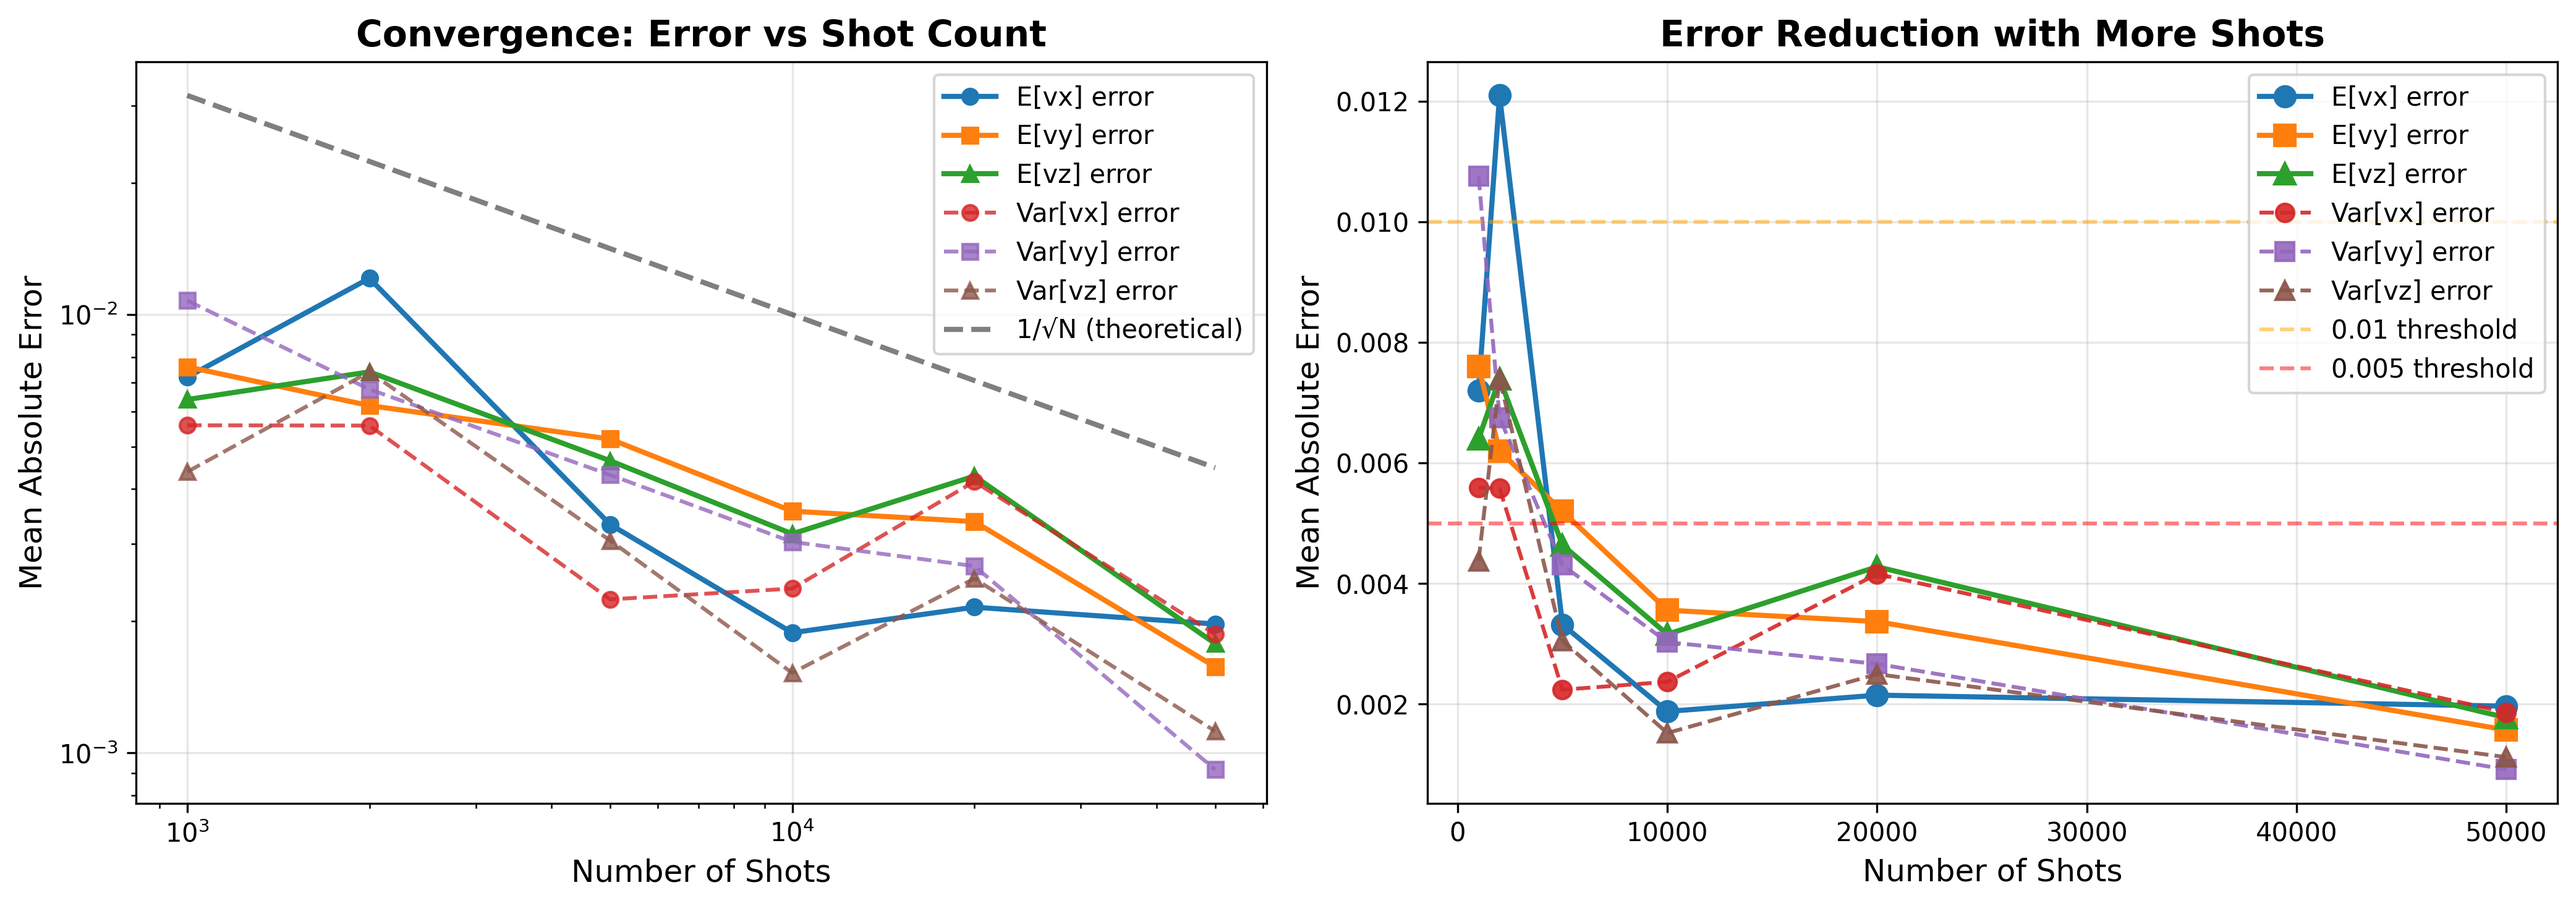
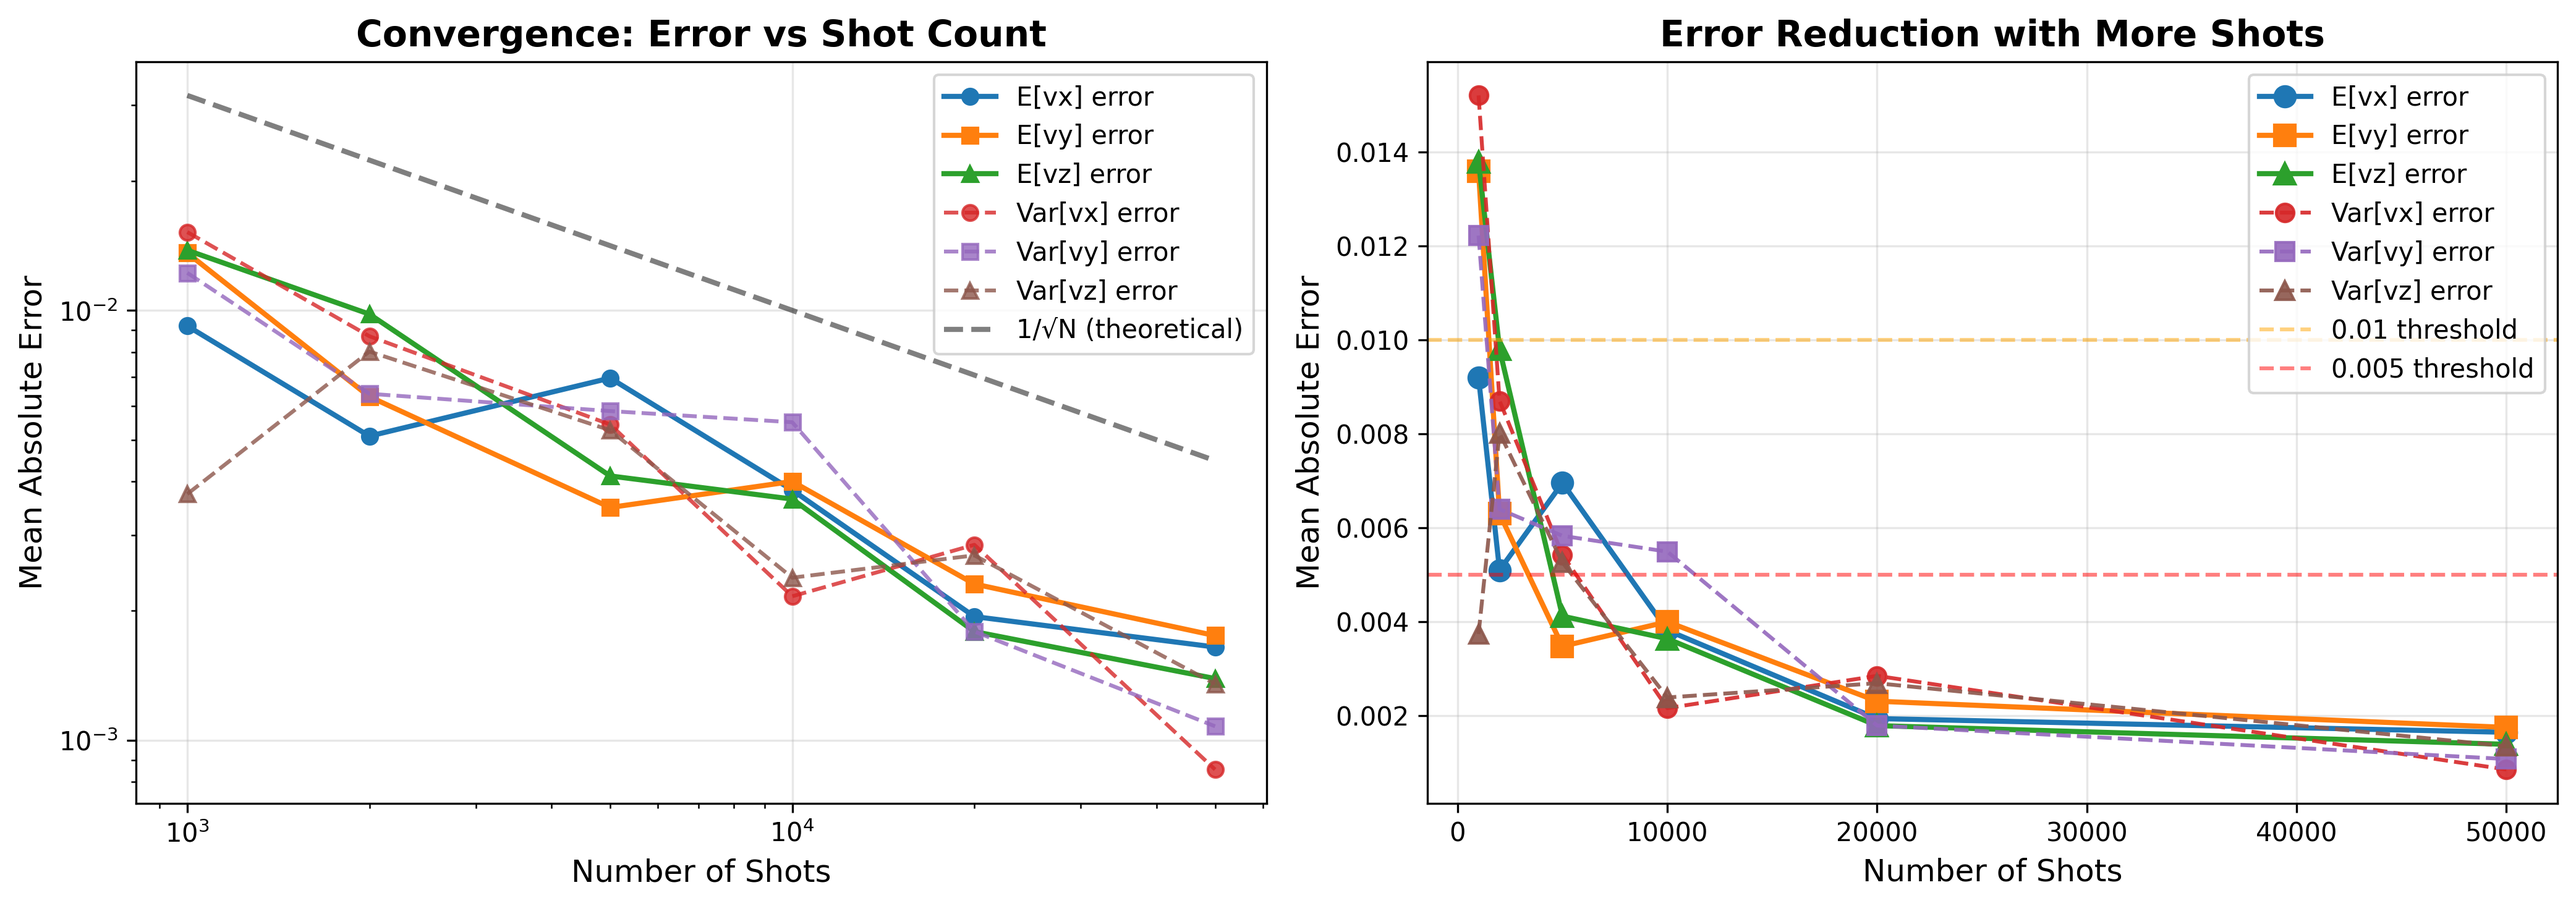
updated convergence plotting

diff --git a/test_convergence.py b/test_convergence.py
@@ -41,12 +41,21 @@ def test_convergence():
         'mean_error_x': [],
         'mean_error_y': [],
         'mean_error_z': [],
+        'mean_error_var_x': [],
+        'mean_error_var_y': [],
+        'mean_error_var_z': [],
         'std_error_x': [],
         'std_error_y': [],
         'std_error_z': [],
+        'std_error_var_x': [],
+        'std_error_var_y': [],
+        'std_error_var_z': [],
         'max_error_x': [],
         'max_error_y': [],
         'max_error_z': [],
+        'max_error_var_x': [],
+        'max_error_var_y': [],
+        'max_error_var_z': [],
     }
     
     print(f"{'Shots':>6s}  {'E[vx] err':>10s}  {'E[vy] err':>10s}  {'E[vz] err':>10s}  {'Expected σ':>10s}  {'Time (s)':>8s}")
@@ -58,6 +67,9 @@ def test_convergence():
         errors_x = []
         errors_y = []
         errors_z = []
+        errors_var_x = []
+        errors_var_y = []
+        errors_var_z = []
         
         start_time = time.time()
         
@@ -71,6 +83,9 @@ def test_convergence():
             errors_x.append(abs(moments['mean_x'] - moments_theory['mean_x']))
             errors_y.append(abs(moments['mean_y'] - moments_theory['mean_y']))
             errors_z.append(abs(moments['mean_z'] - moments_theory['mean_z']))
+            errors_var_x.append(abs(moments['var_x'] - moments_theory['var_x']))
+            errors_var_y.append(abs(moments['var_y'] - moments_theory['var_y']))
+            errors_var_z.append(abs(moments['var_z'] - moments_theory['var_z']))
         
         elapsed = time.time() - start_time
         
@@ -84,12 +99,22 @@ def test_convergence():
         results['mean_error_x'].append(mean_err_x)
         results['mean_error_y'].append(mean_err_y)
         results['mean_error_z'].append(mean_err_z)
+        # Mean errors for variances (temperature)
+        results['mean_error_var_x'].append(np.mean(errors_var_x))
+        results['mean_error_var_y'].append(np.mean(errors_var_y))
+        results['mean_error_var_z'].append(np.mean(errors_var_z))
         results['std_error_x'].append(np.std(errors_x))
         results['std_error_y'].append(np.std(errors_y))
         results['std_error_z'].append(np.std(errors_z))
+        results['std_error_var_x'].append(np.std(errors_var_x))
+        results['std_error_var_y'].append(np.std(errors_var_y))
+        results['std_error_var_z'].append(np.std(errors_var_z))
         results['max_error_x'].append(np.max(errors_x))
         results['max_error_y'].append(np.max(errors_y))
         results['max_error_z'].append(np.max(errors_z))
+        results['max_error_var_x'].append(np.max(errors_var_x))
+        results['max_error_var_y'].append(np.max(errors_var_y))
+        results['max_error_var_z'].append(np.max(errors_var_z))
         
         print(f"{shots:6d}  {mean_err_x:10.6f}  {mean_err_y:10.6f}  {mean_err_z:10.6f}  {expected_sigma:10.6f}  {elapsed:8.2f}")
     
@@ -152,6 +177,10 @@ def test_convergence():
     ax.loglog(results['shots'], results['mean_error_x'], 'o-', label='E[vx] error', linewidth=2)
     ax.loglog(results['shots'], results['mean_error_y'], 's-', label='E[vy] error', linewidth=2)
     ax.loglog(results['shots'], results['mean_error_z'], '^-', label='E[vz] error', linewidth=2)
+    # Plot temperature (variance) errors as dashed lighter markers
+    ax.loglog(results['shots'], results['mean_error_var_x'], 'o--', label='Var[vx] error', linewidth=1.5, alpha=0.8)
+    ax.loglog(results['shots'], results['mean_error_var_y'], 's--', label='Var[vy] error', linewidth=1.5, alpha=0.8)
+    ax.loglog(results['shots'], results['mean_error_var_z'], '^--', label='Var[vz] error', linewidth=1.5, alpha=0.8)
     
     # Theoretical 1/√N line
     theoretical_line = [1.0 / np.sqrt(n) for n in results['shots']]
@@ -168,6 +197,9 @@ def test_convergence():
     ax.plot(results['shots'], results['mean_error_x'], 'o-', label='E[vx] error', linewidth=2, markersize=8)
     ax.plot(results['shots'], results['mean_error_y'], 's-', label='E[vy] error', linewidth=2, markersize=8)
     ax.plot(results['shots'], results['mean_error_z'], '^-', label='E[vz] error', linewidth=2, markersize=8)
+    ax.plot(results['shots'], results['mean_error_var_x'], 'o--', label='Var[vx] error', linewidth=1.5, markersize=7, alpha=0.9)
+    ax.plot(results['shots'], results['mean_error_var_y'], 's--', label='Var[vy] error', linewidth=1.5, markersize=7, alpha=0.9)
+    ax.plot(results['shots'], results['mean_error_var_z'], '^--', label='Var[vz] error', linewidth=1.5, markersize=7, alpha=0.9)
     
     ax.axhline(y=0.01, color='orange', linestyle='--', alpha=0.5, label='0.01 threshold')
     ax.axhline(y=0.005, color='red', linestyle='--', alpha=0.5, label='0.005 threshold')
@@ -189,6 +221,8 @@ def test_convergence():
     print()
     print(f"• Errors follow 1/√N scaling as expected ✓")
     print(f"• At 1000 shots:  error ~{np.mean([results['mean_error_x'][0], results['mean_error_y'][0], results['mean_error_z'][0]]):.4f}")
+    print(f"• At 10000 shots: error ~{np.mean([results['mean_error_x'][3], results['mean_error_y'][3], results['mean_error_z'][3]]):.4f}")
+    print(f"• At 1000 shots (variance): temp error ~{np.mean([results['mean_error_var_x'][0], results['mean_error_var_y'][0], results['mean_error_var_z'][0]]):.4f}")
     print(f"• At 10000 shots: error ~{np.mean([results['mean_error_x'][3], results['mean_error_y'][3], results['mean_error_z'][3]]):.4f}")
     print(f"• At 50000 shots: error ~{np.mean([results['mean_error_x'][-1], results['mean_error_y'][-1], results['mean_error_z'][-1]]):.4f}")
     print()
